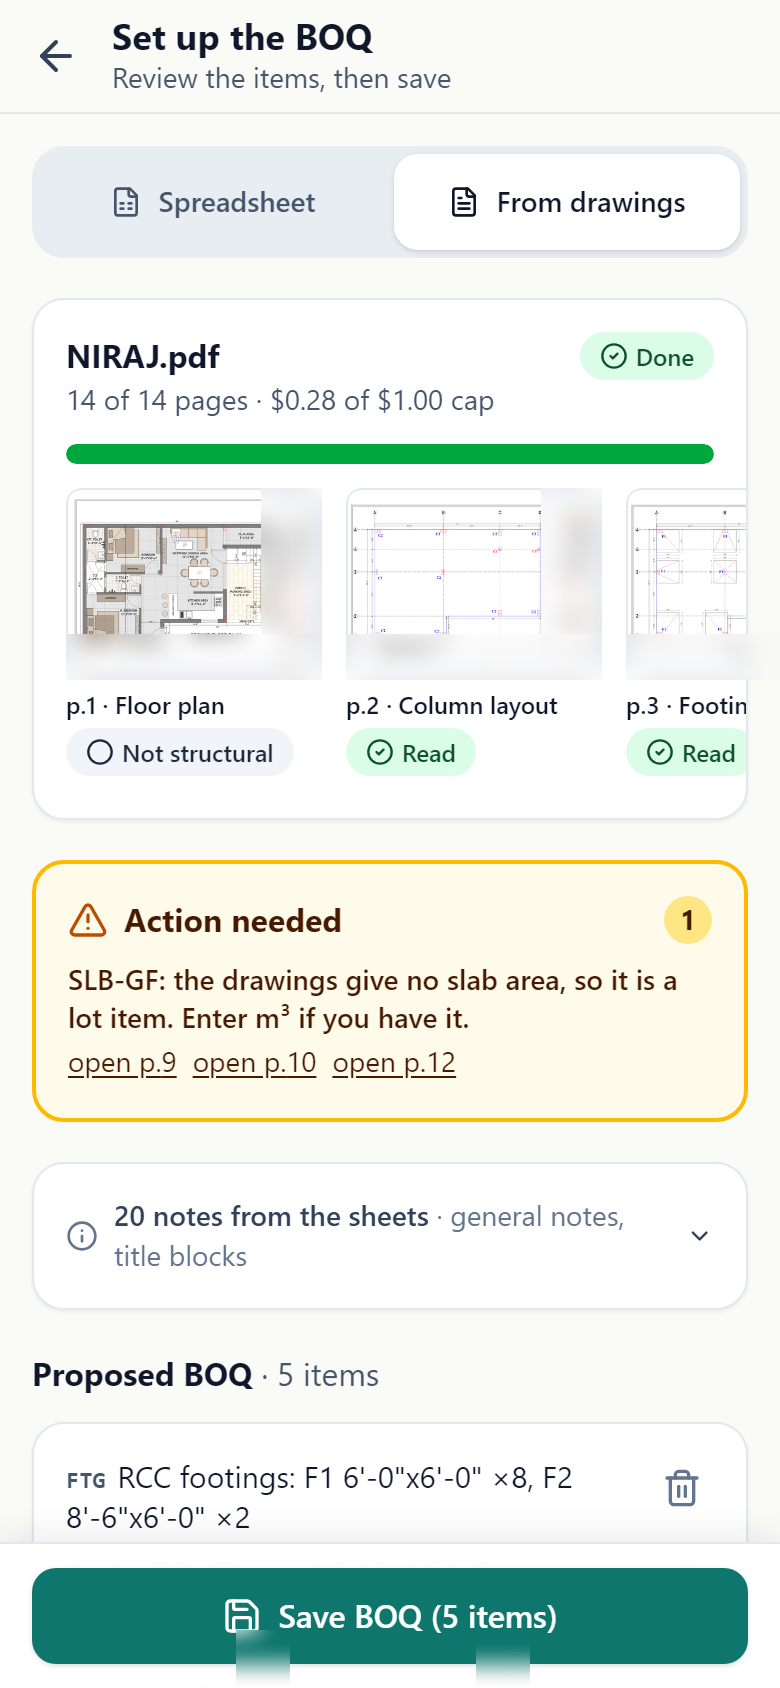
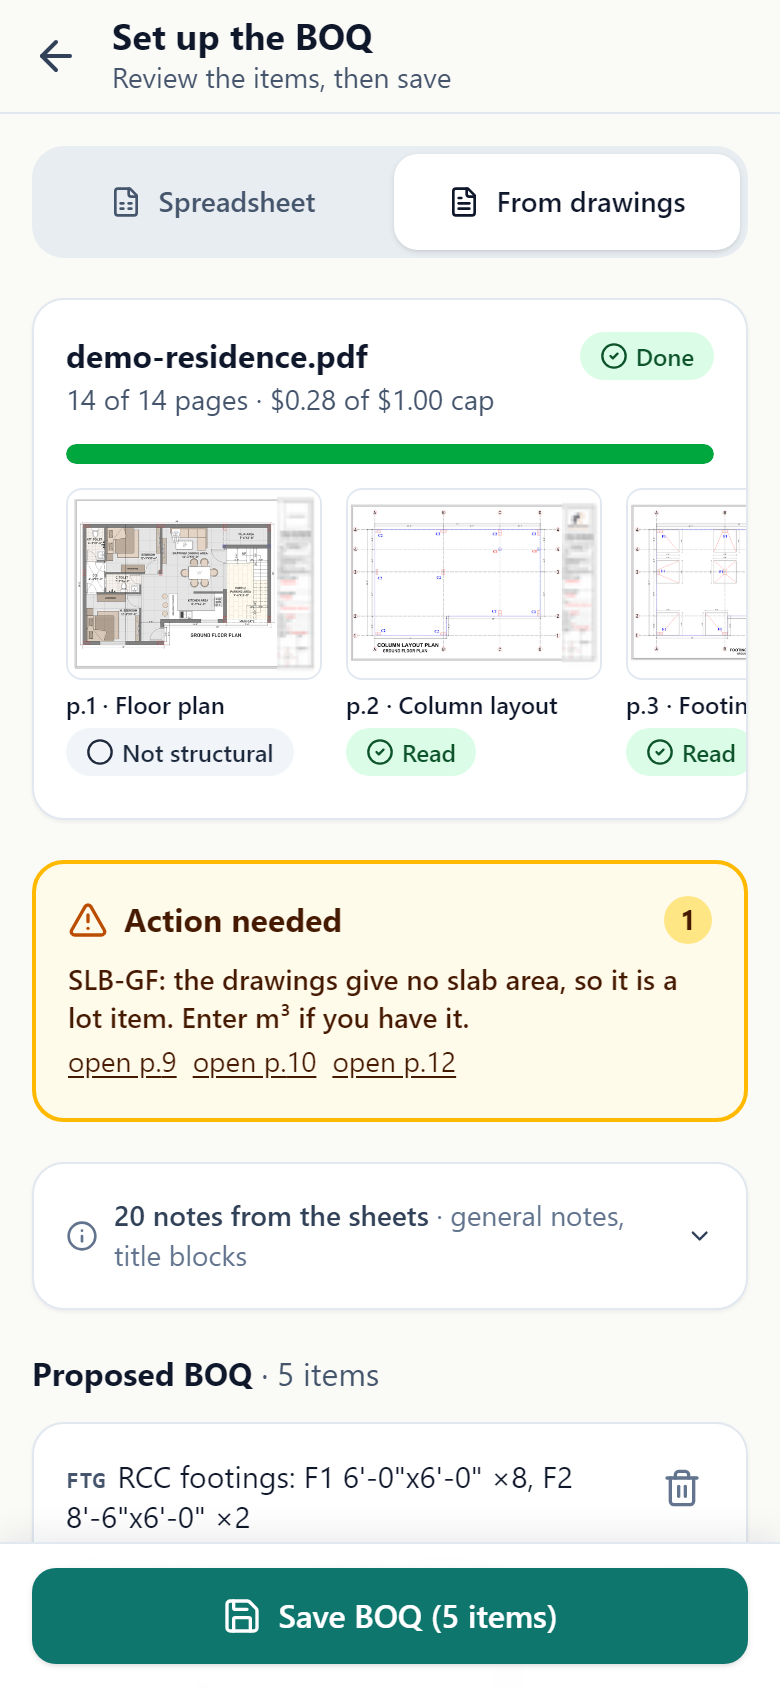
docs: README screenshots (drawing import, review card)
readme-shots no longer blurs on its own: the server serves only
title-block-redacted pages, and the script refuses to capture from a
server that would still serve originals.

diff --git a/apps/web/scripts/readme-shots.ts b/apps/web/scripts/readme-shots.ts
@@ -4,15 +4,15 @@
  * Logs in through the login screen with DEMO_PASSWORD from deploy-secrets.local.txt (never printed), then captures
  * at phone width into docs/img/:
  *   trace-rejections.png  the live trace of a visit whose detections were rejected (prefers --trace-project)
- *   drawing-import.png    a finished drawing import with its page sources (title blocks blurred)
+ *   drawing-import.png    a finished drawing import with its page sources (title blocks blurred by the server)
  *   review-card.png       the first review card of --project's second visit
- * Title blocks of client drawings: the right and bottom strips of every drawing thumbnail are blurred.
+ * Title blocks of client drawings are blurred by the server (it only serves a redacted copy of each page); the script
+ * refuses to capture the drawing import from a server that would still serve originals.
  */
 import { mkdir, readFile } from "node:fs/promises";
 import { dirname, join, resolve } from "node:path";
 import { fileURLToPath } from "node:url";
 import { parseArgs } from "node:util";
-import { createRequire } from "node:module";
 
 const repoRoot = resolve(dirname(fileURLToPath(import.meta.url)), "../../..");
 const { values: args } = parseArgs({
@@ -31,7 +31,6 @@ if (!args["base-url"]) {
 }
 const BASE = args["base-url"].replace(/\/+$/, "");
 const outDir = resolve(repoRoot, args.out!);
-const sharp = createRequire(join(repoRoot, "apps/api/package.json"))("sharp") as typeof import("sharp");
 
 const password = /DEMO_PASSWORD=(\S+)/.exec(await readFile(resolve(repoRoot, args["password-file"]!), "utf8"))?.[1];
 if (!password) throw new Error(`No DEMO_PASSWORD= line in ${args["password-file"]}`);
@@ -114,28 +113,18 @@ for (const p of traceCandidates) {
 }
 if (!traceDone) console.warn("No visit with rejected detections found: trace-rejections.png not written");
 
-// 2. Drawing import with page sources; blur title blocks on every drawing thumbnail in view.
+// 2. Drawing import with page sources (the server blurs title blocks in every page image it serves).
 if (drawing) {
   await page.goto(`${BASE}/projects/${drawing.projectId}/boq?import=${drawing.importId}`);
   await page.getByText("Proposed BOQ").waitFor({ timeout: 20_000 });
   await settle();
+  const imp = (await (await page.request.get(`${BASE}/api/projects/${drawing.projectId}/drawings/${drawing.importId}`)).json()) as { pages: { imageUrl: string }[] };
+  if (!imp.pages.every((p) => /\.view\.png(\?|$)/.test(p.imageUrl))) {
+    throw new Error("This server serves original drawing pages (title blocks not blurred): deploy first, then re-run.");
+  }
   const file = join(outDir, "drawing-import.png");
-  const shot = await page.screenshot({ fullPage: false });
-  // Only thumbnails actually visible: skip ones off screen or covered (e.g. by the fixed Save bar).
-  const thumbs = await page.locator("img[src*='/storage/'][src*='thumbs']").evaluateAll((els) =>
-    els
-      .filter((e) => {
-        const r = e.getBoundingClientRect();
-        if (r.width === 0 || r.bottom <= 0 || r.top >= innerHeight || r.right <= 0 || r.left >= innerWidth) return false;
-        const x = Math.min(Math.max(r.left + r.width / 2, 1), innerWidth - 1);
-        const y = Math.min(Math.max(r.top + r.height / 2, 1), innerHeight - 1);
-        return document.elementFromPoint(x, y) === e;
-      })
-      .map((e) => e.getBoundingClientRect())
-      .map((r) => ({ x: r.x, y: r.y, w: r.width, h: r.height })),
-  );
-  await writeBlurred(shot, thumbs, 2, file);
-  saved.push(`${file}  (${thumbs.length} thumbnail(s) with title blocks blurred)`);
+  await page.screenshot({ path: file, fullPage: false });
+  saved.push(`${file}  (${imp.pages.length} pages, title blocks blurred by the server)`);
 } else {
   console.warn("No finished drawing import found: drawing-import.png not written");
 }
@@ -150,26 +139,3 @@ saved.push(`${reviewFile}  (${main.name}, visit ${reviewVisit.visitDate})`);
 
 await browser.close();
 console.log(`Saved:\n  ${saved.join("\n  ")}`);
-
-/** Blur the title-block strips (right 24 %, bottom 24 %) of each thumbnail rect (CSS px) in a screenshot. */
-async function writeBlurred(png: Buffer, rects: { x: number; y: number; w: number; h: number }[], scale: number, file: string) {
-  const img = sharp(png);
-  const { width = 0, height = 0 } = await img.metadata();
-  const overlays: { input: Buffer; left: number; top: number }[] = [];
-  for (const r of rects) {
-    const strips = [
-      { x: r.x + r.w * 0.76, y: r.y, w: r.w * 0.24, h: r.h },
-      { x: r.x, y: r.y + r.h * 0.76, w: r.w, h: r.h * 0.24 },
-    ];
-    for (const s of strips) {
-      const left = Math.max(0, Math.round(s.x * scale));
-      const top = Math.max(0, Math.round(s.y * scale));
-      const w = Math.min(width - left, Math.round(s.w * scale));
-      const h = Math.min(height - top, Math.round(s.h * scale));
-      if (w < 4 || h < 4) continue;
-      const input = await sharp(png).extract({ left, top, width: w, height: h }).blur(12).toBuffer();
-      overlays.push({ input, left, top });
-    }
-  }
-  await sharp(png).composite(overlays).png().toFile(file);
-}
